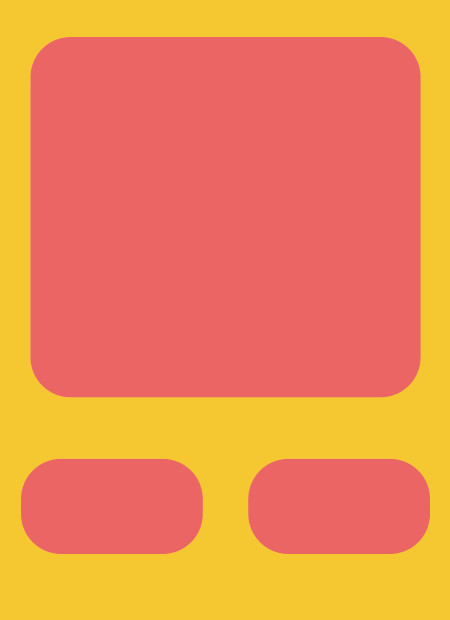
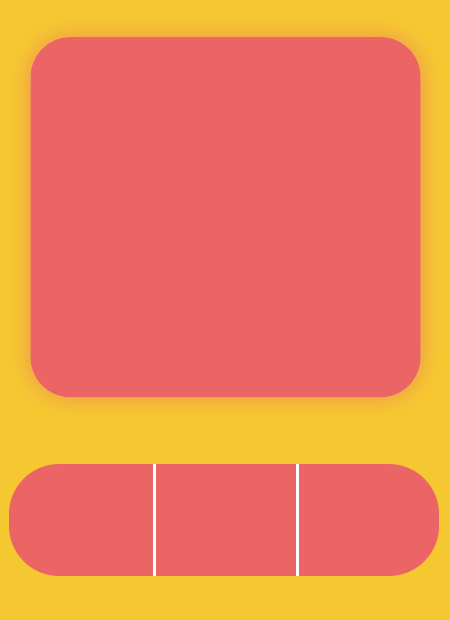
added ability to edit saved passwords

Changed region(s): [[0.0, 0.7355, 0.9956, 0.95]]

diff --git a/FrontEnd.py b/FrontEnd.py
@@ -1,3 +1,5 @@
+from cgitb import text
+from faulthandler import disable
 from tkinter import *
 import sqlite3
 import string
@@ -122,6 +124,7 @@ def login(event=None):
             def gen_fun():
                 root = Toplevel() 
                 root.title("Pass.IO")
+                nroot.iconbitmap("icon.ico")
                 w_screen = 450
                 h_screen = 620
 
@@ -207,14 +210,14 @@ def login(event=None):
                     def save_butt():
                         conn=sqlite3.connect('savepass.db')
                         c = conn.cursor()
-                        c.execute("INSERT INTO save_pass VALUES (:user,:pass,:domain_value,:username_value, :generated, :oid_value)",
+                        c.execute("INSERT INTO save_pass VALUES (:user,:pass,:oid_value,:domain_value,:username_value,:generated)",
                                 {
                                     "user":user_value.get(),
                                     "pass":pass_value.get(),
+                                    "oid_value":oid_value,
                                     "domain_value":domain_value.get(),
                                     "username_value":username_value.get(),
-                                    "generated":password_value.get(),
-                                    "oid_value":oid_value
+                                    "generated":password_value.get()
                                 })
                         conn.commit()
                         conn.close()
@@ -317,30 +320,30 @@ def login(event=None):
                 c.execute("SELECT * FROM save_pass ")
                 r=c.fetchall()
                 emptylist=[]
+                conn.close()
 
                 for rec in r:
-                    if rec[5] == oid_value:
+                    if rec[2] == oid_value:
                         emptylist.append(rec)         
              
-
+                domain_var= StringVar()
+                user_var= StringVar()
+                pass_var= StringVar()
                 
-
-                def show_pass(indexvar=0):
-        
+                domain_entry = Entry(sroot,textvariable=domain_var, font=("Louis George Café Light", 20), bg="#db5e5e", relief= FLAT,fg="#3b3f46" ) 
+                user_entry = Entry(sroot,textvariable=user_var, font=("Louis George Café Light", 20), bg="#db5e5e",relief=FLAT,fg="#3b3f46" )
+                pass_entry = Entry(sroot,textvariable=pass_var, font=("Bahnschrift Light", 20),justify='center', bg="#db5e5e",relief=FLAT, fg="#3b3f46" )
                     
-                    domain_entry = Entry(sroot, font=("Louis George Café Light", 20), bg="#db5e5e", relief= FLAT,fg="#3b3f46" ) 
-                    user_entry = Entry(sroot, font=("Louis George Café Light", 20), bg="#db5e5e",relief=FLAT,fg="#3b3f46" )
-                    pass_entry = Entry(sroot, font=("Bahnschrift Light", 20),justify='center', bg="#db5e5e",relief=FLAT, fg="#3b3f46" )
-
+                def show_pass(indexvar=0):
 
                     domain_entry.delete(0,END)
-                    domain_entry.insert(0,emptylist[indexvar][2])
+                    domain_entry.insert(0,emptylist[indexvar][3])
 
                     user_entry.delete(0,END)
-                    user_entry.insert(0,emptylist[indexvar][3])
+                    user_entry.insert(0,emptylist[indexvar][4])
 
                     pass_entry.delete(0,END)
-                    pass_entry.insert(0,emptylist[indexvar][4])
+                    pass_entry.insert(0,emptylist[indexvar][5])
 
 
 
@@ -363,16 +366,73 @@ def login(event=None):
                     else:
                         indexvar = len(emptylist) - 1                     
                     show_pass(indexvar)
-                    
 
+                def edit_butt():
+                    eroot = Toplevel(sroot)
+                    eroot.title("Pass.IO")
+                    eroot.iconbitmap("icon.ico")
+                    w_screen = 450  
+                    h_screen = 620  
+
+                    screen_width = eroot.winfo_screenwidth() 
+                    screen_height = eroot.winfo_screenheight()   
+                    
+                    x_cor = (screen_width / 2) - (w_screen / 2) 
+                    y_cor = (screen_height / 2) - (h_screen / 2)    
+                    
+                    eroot.geometry("%dx%d+%d+%d" % (w_screen, h_screen, x_cor, y_cor))
+                    eroot.wm_resizable(width=False, height=False)
+                            
+                    bg__ = PhotoImage(file="editpass.png")    
+                    
+                    imgbg = Canvas(eroot)
+                    imgbg.pack(fill="both", expand=True)
+                    imgbg.create_image(225, 310, image=bg__)
+
+                    imgbg.create_text(225, 90, text="Enter New Details", font=("Louis George Café bold", 30), fill="#2d2d2d")
+                    imgbg.create_text(85, 170, text="Domain", font=("Louis George Café bold", 20), fill="#2d2d2d")
+                    imgbg.create_text(98, 270, text="Username", font=("Louis George Café bold", 20), fill="#2d2d2d")
+                    imgbg.create_text(98, 370, text="Password", font=("Louis George Café bold", 20), fill="#2d2d2d")
+
+                    newdomain_entry = Entry(eroot, font=("Louis George Café Light", 20), bg="#f5b8c8", relief= FLAT,fg="#2d2d2d") 
+                    newdomain_entry.insert(0,domain_entry.get())
+                    newuser_entry = Entry(eroot, font=("Louis George Café Light", 20), bg="#f5b8c8",relief=FLAT,fg="#2d2d2d")
+                    newuser_entry.insert(0,user_entry.get())
+                    imgbg.create_text(225, 410, text=pass_var.get(), font=("Bahnschrift Light", 20), fill="#2d2d2d")                    
                 
+                    imgbg.create_window(225, 210, window=newdomain_entry, height=35, width=380)
+                    imgbg.create_window(225, 310, window=newuser_entry, height=35, width=380)
+                    
+                    def updatedetails():
+                        conn=sqlite3.connect('savepass.db')
+                        c = conn.cursor()
+                        olddomain = domain_entry.get()
+                        newdomain = newdomain_entry.get()
+                        olduser = user_entry.get()
+                        newuser = newuser_entry.get()
+                        c.execute("update save_pass set domain = ?, username = ? where domain = ? and username = ?", (newdomain,newuser,olddomain,olduser))
+                        conn.commit()
+                        conn.close()
+
+                    def saverecbutt():
+                        eroot.destroy()
+                        sroot.destroy()
+                        save_fun()
+                    saverec_button=Button(eroot, text="Save", borderwidth=0, relief=FLAT, font=("Louis George Café Light", 30),bg='#ffbfd0',activebackground='#ffbfd0',fg='#2d2d2d',command=lambda: [updatedetails(),saverecbutt()])                 
+                    imgbg.create_window(225,560, window=saverec_button, width= 140 ,height= 80)
+        
+                    eroot.mainloop()
+
                 show_pass()
 
                 next_button = Button(sroot, text="Next", borderwidth=0, relief=FLAT, font=("Louis George Café Light", 30),bg='#eb6565',activebackground='#eb6565',fg='#094873',command=next_butt)                 
-                imgbg.create_window(340,505, window=next_button, width= 140 ,height= 80)
+                imgbg.create_window(360,520, window=next_button, width= 120 ,height= 80)
 
                 prev_button = Button(sroot, text="Prev", borderwidth=0, relief=FLAT, font=("Louis George Café Light", 30),bg='#eb6565',activebackground='#eb6565',fg='#094873',command=prev_butt)                 
-                imgbg.create_window(110,505, window=prev_button, width= 140 ,height= 80)
+                imgbg.create_window(90,520, window=prev_button, width= 120 ,height= 80)
+
+                edit_button=Button(sroot, text="Edit", borderwidth=0, relief=FLAT, font=("Louis George Café Light", 30),bg='#eb6565',activebackground='#eb6565',fg='#094873',command=edit_butt)                 
+                imgbg.create_window(225,520, window=edit_button, width= 135 ,height= 80)
    
                 sroot.mainloop()
 
